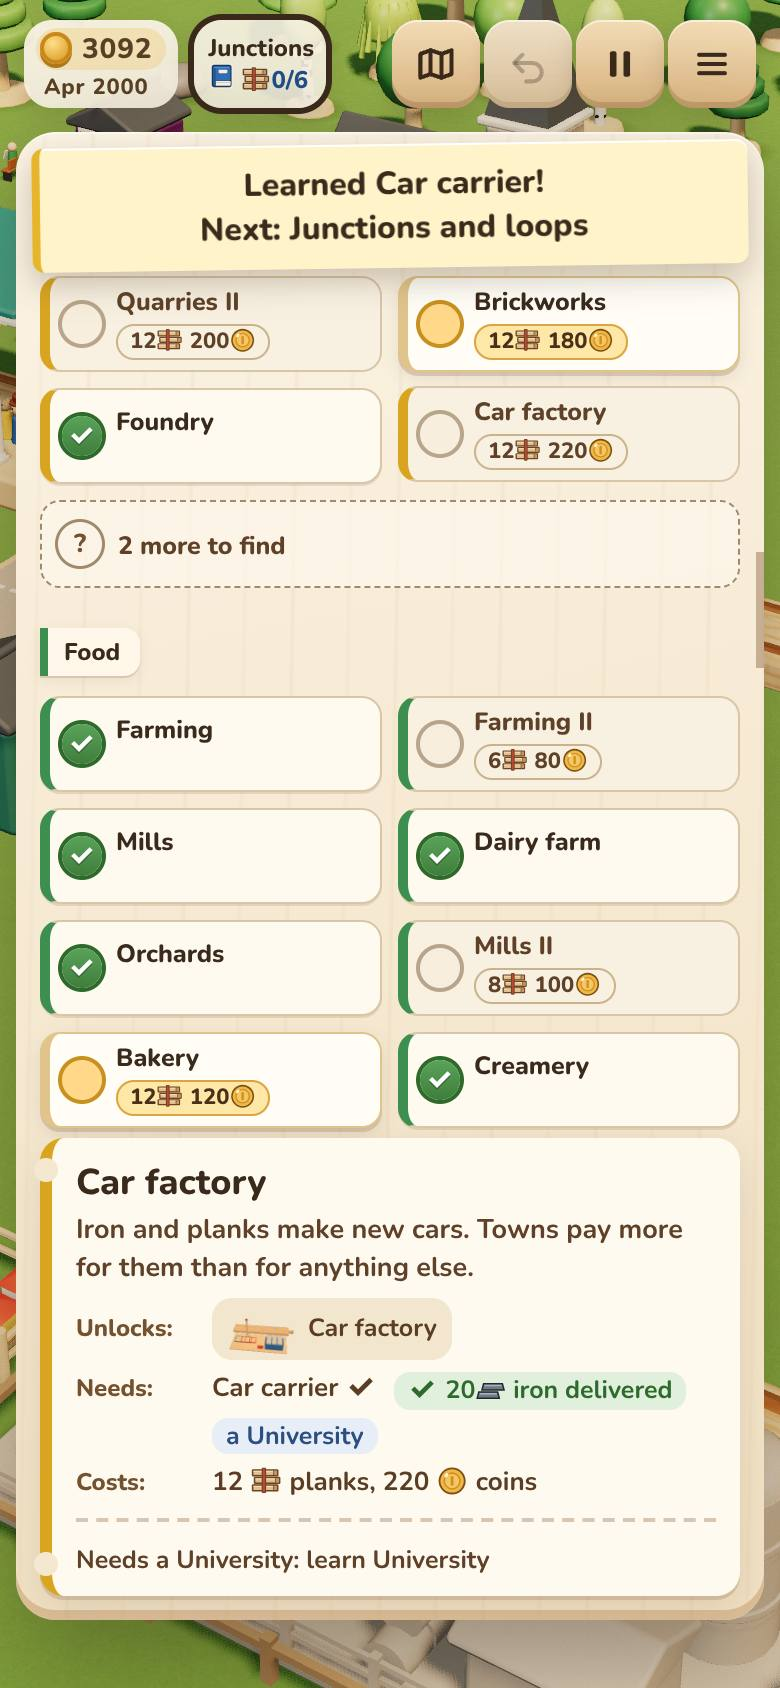
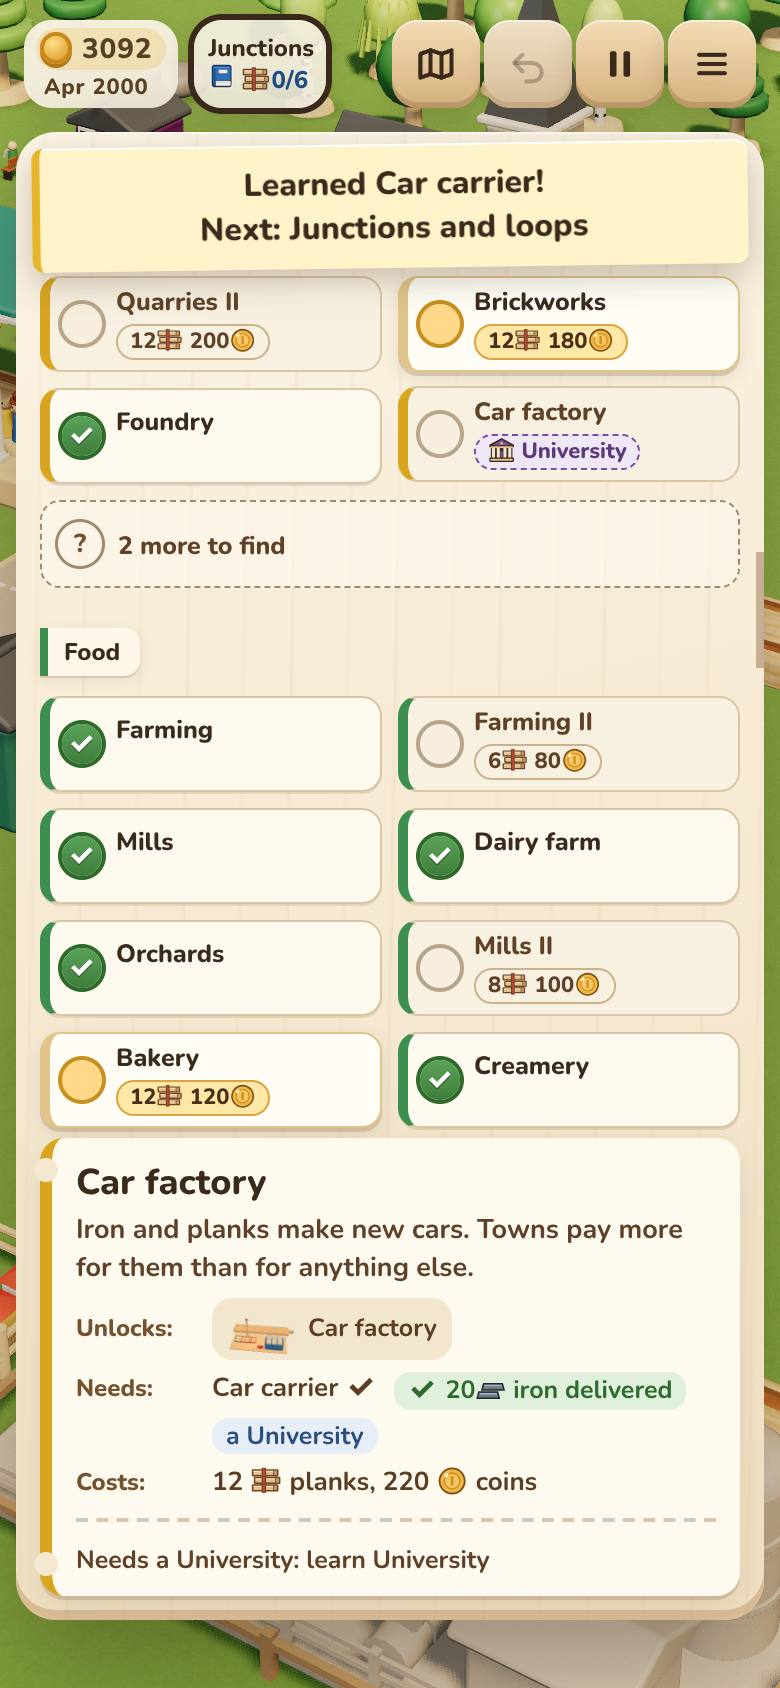
Research picker: a node locked till a College or a University says so in its tag
In the web a gated node looked like any other you could buy until its ticket was opened. Now
its tag, in place of its price, says "🎓 College" or "🏛 University" while you have no such
school (the Learning branch's purple, dashed like Soon's), and goes back to its price once you
do. Screen readers hear "Car carrier, needs a College".

- `Station.school` (main.ts sets it from the row's unmet school need); `nodeTag`, exported.
- Tests: blueprint-board.test.ts (the tag); e2e:research: the Car carrier's tag "🎓 College"
  and the Car factory's "🏛 University", each inside its node at 390 px, and the Car factory's
  price again once there's a University. ALL PASS (98). Pictures updated
  (docs/agents/shots/tech-tree-3-gated-*.jpg).

Claude-Session: https://claude.ai/code/session_0121cKbkUv3RN7pkE7x9iaJD

diff --git a/src/ui/blueprint-board.ts b/src/ui/blueprint-board.ts
@@ -37,6 +37,11 @@ export interface Station {
   requires: { text: string; met: boolean }[];
   /** For `locked`: what it waits for. For `soon`: when (next, coming soon, someday). */
   waits?: string;
+  /**
+   * For `locked`: the school it must be studied at, while you have none (tech tree 3): its tag in the web says so, in
+   * place of its price, so it doesn't look like any other node you could buy.
+   */
+  school?: "College" | "University";
 }
 
 export interface BoardView {
@@ -254,9 +259,11 @@ const NODE_TAG: Partial<Record<CardState, (s: Station) => string>> = {
   researching: () => `<span class="bp-tag now">📘 Researching</span>`,
   next: (s) => `<span class="bp-tag next">${s.queued && s.queued > 1 ? `In line: ${s.queued}` : "Next up"}</span>`,
   ready: (s) => `<span class="bp-tag price">${esc(s.price)}</span>`,
-  locked: (s) => `<span class="bp-tag price later">${esc(s.price)}</span>`,
+  locked: (s) => (s.school ? `<span class="bp-tag school">${s.school === "University" ? "🏛" : "🎓"} ${s.school}</span>` : `<span class="bp-tag price later">${esc(s.price)}</span>`),
   soon: () => `<span class="bp-tag soon">Soon</span>`,
 };
+/** A card's tag in the web (empty for a learned one). */
+export const nodeTag = (s: Station): string => NODE_TAG[s.state]?.(s) ?? "";
 /** How a card stands, in words, for a screen reader (its tag and dot say it on screen). */
 const STATE_WORDS: Record<CardState, string> = { learned: "learned", researching: "researching now", next: "in the queue", ready: "can research", locked: "later", soon: "coming soon" };
 
@@ -474,14 +481,14 @@ export class BlueprintBoard {
     const opened = new Set(drawn.filter((s) => s.needs.some((n) => fresh.has(n)) && s.state !== "learned").map((s) => s.id));
     const node = (s: Station, p: { x: number; y: number } | null) => {
       const hint = hintOf(s);
-      const tag = hint ? "" : (NODE_TAG[s.state]?.(s) ?? "");
+      const tag = hint ? "" : nodeTag(s);
       const cls = `bp-node ${hint ? "hint" : s.state}${s.id === this.selected ? " selected" : ""}${fresh.has(s.id) ? " fresh" : ""}${opened.has(s.id) && !hint ? " opened" : ""}`;
       // (A "?" centred in its slot, both ways.)
       const inset = slotInset(hint ? HINT_W : TAG_W);
       const at = p ? `left:${p.x + inset.x}px;top:${p.y + inset.y}px;` : "";
       const fill = s.state === "researching" && s.research?.fill !== undefined ? `--fill:${Math.round(s.research.fill * 100)}%;` : "";
       const gauge = s.state === "researching" && !hint ? `<span class="bp-node-gauge" aria-hidden="true"></span>` : "";
-      const label = hint ? `Not found yet, in ${v.branches.find((b) => b.id === s.branch)?.label ?? "this branch"}` : `${s.label}, ${STATE_WORDS[s.state]}`;
+      const label = hint ? `Not found yet, in ${v.branches.find((b) => b.id === s.branch)?.label ?? "this branch"}` : `${s.label}, ${s.state === "locked" && s.school ? `needs a ${s.school}` : STATE_WORDS[s.state]}`;
       return `<button class="${cls}" style="${at}${fill}--c:${color.get(s.branch)}" data-act="select" data-id="${s.id}" aria-label="${esc(label)}"${s.id === this.selected ? ` aria-current="true"` : ""} title="${hint ? "Not found yet" : esc(tagTitle(s))}"><span class="bp-dot">${s.state === "learned" && !hint ? "✓" : ""}</span><span class="bp-name">${hint ? "?" : esc(s.label)}</span>${tag}${gauge}</button>`;
     };
     let html = "";

diff --git a/src/main.ts b/src/main.ts
@@ -75,7 +75,7 @@ import { carLoadWords, trainSummary, type SummaryCar } from "./game/train-summar
 import { CARRIES, COIN_ICON } from "./economy/cargo";
 import { BOAT_SAIL, BUY_LOT, buyPrice, goodsForSale, HarbourTrade, SHED_PRICE } from "./game/harbours";
 import { CRANE_TICKS, WAGON_CAPACITY } from "./economy/constants";
-import { BRANCHES, COLLEGE_SCHOOL_ID, describeNeed as describeNeedWords, UNIVERSITY_SCHOOL_ID, type Need, type Plan } from "./game/blueprints";
+import { BRANCHES, COLLEGE_SCHOOL_ID, describeNeed as describeNeedWords, SCHOOL_NEED, UNIVERSITY_SCHOOL_ID, type Need, type Plan } from "./game/blueprints";
 import { attachPassengers, detachPassengers, peopleArrive, waitingCap } from "./game/passengers";
 import { ledgerKey, townLedger, type LedgerContext } from "./game/town-ledger";
 import { drawLedger } from "./ui/town-ledger";
@@ -2214,7 +2214,9 @@ function boot(savedThumbnails: Map<string, string> | null, opening: ReturnType<t
           : unmet.length > 0
             ? `Needs ${unmet.map(needHow).join(" and ")}`
             : "Later";
-      return { ...base, state: "locked" as const, waits };
+      // Locked till you have the school it's studied at (tech tree 3): its tag says which.
+      const gate = t.school && unmet.includes(SCHOOL_NEED[t.school]) ? (t.school === "university" ? "University" : "College") : undefined;
+      return { ...base, state: "locked" as const, waits, ...(gate ? { school: gate } : {}) };
     });
     const focus = goalPick(progress, goalTech, school !== null);
     board.show({

diff --git a/src/ui/blueprint-board.test.ts b/src/ui/blueprint-board.test.ts
@@ -4,7 +4,7 @@ import { describe, expect, it } from "vitest";
 import { Progress } from "../game/progress";
 import { deliver, pick } from "../game/research";
 import { researchCard } from "../game/research-text";
-import { HINT_W, layoutWeb, researchFoot, routeLinks, TAG_H, TAG_W, tagTitle, type Station } from "./blueprint-board";
+import { HINT_W, layoutWeb, nodeTag, researchFoot, routeLinks, TAG_H, TAG_W, tagTitle, type Station } from "./blueprint-board";
 
 const st = (id: string, branch: string, needs: string[] = []): Station => ({ id, label: id, blurb: "", branch, makes: [], state: "locked", seen: "shown", needs, price: "free", cost: "nothing", unlocks: "", requires: [] });
 
@@ -167,3 +167,12 @@ describe("tooltips and the full cost (#11)", () => {
   });
 });
 
+
+describe("a node's tag in the web", () => {
+  it("a locked one shows its price, or the school it waits for (a College, a University) in its place", () => {
+    const s = { ...st("car-carrier", "trains"), price: "6\uE000 160🪙" };
+    expect(nodeTag(s)).toContain("price later");
+    expect(nodeTag({ ...s, school: "College" })).toBe(`<span class="bp-tag school">🎓 College</span>`);
+    expect(nodeTag({ ...s, school: "University" })).toBe(`<span class="bp-tag school">🏛 University</span>`);
+  });
+});

diff --git a/src/style.css b/src/style.css
@@ -880,6 +880,8 @@ input, textarea, [contenteditable="true"] { -webkit-user-select: text; user-sele
 .bp-node.hint .bp-name { font-size: 17px; font-weight: 900; color: #74522f; text-align: center; }
 .bp-node.hint .bp-dot { display: none; }
 .bp-tag.soon { color: #5e4128; background: transparent; border: 1.5px dashed #a08a6c; padding: 0 6px; }
+/* Locked till you have a College or a University (tech tree 3): the Learning branch's purple, as Soon's dashed tag. */
+.bp-tag.school { color: #5b3a7a; background: #efe6f6; border: 1.5px dashed #7b4fa0; padding: 0 6px; }
 .bp-dot { flex: none; width: 30px; height: 30px; border-radius: 50%; display: grid; place-items: center; font-weight: 900; font-size: 17px; color: #fff; background: #fffaf0; box-shadow: 0 0 0 3px #b8a68c; }
 .bp-name { font-size: 12.5px; font-weight: 800; line-height: 1.15; overflow-wrap: anywhere; }
 /* The tag slot on a card: one height, one shape, whatever it says. */
